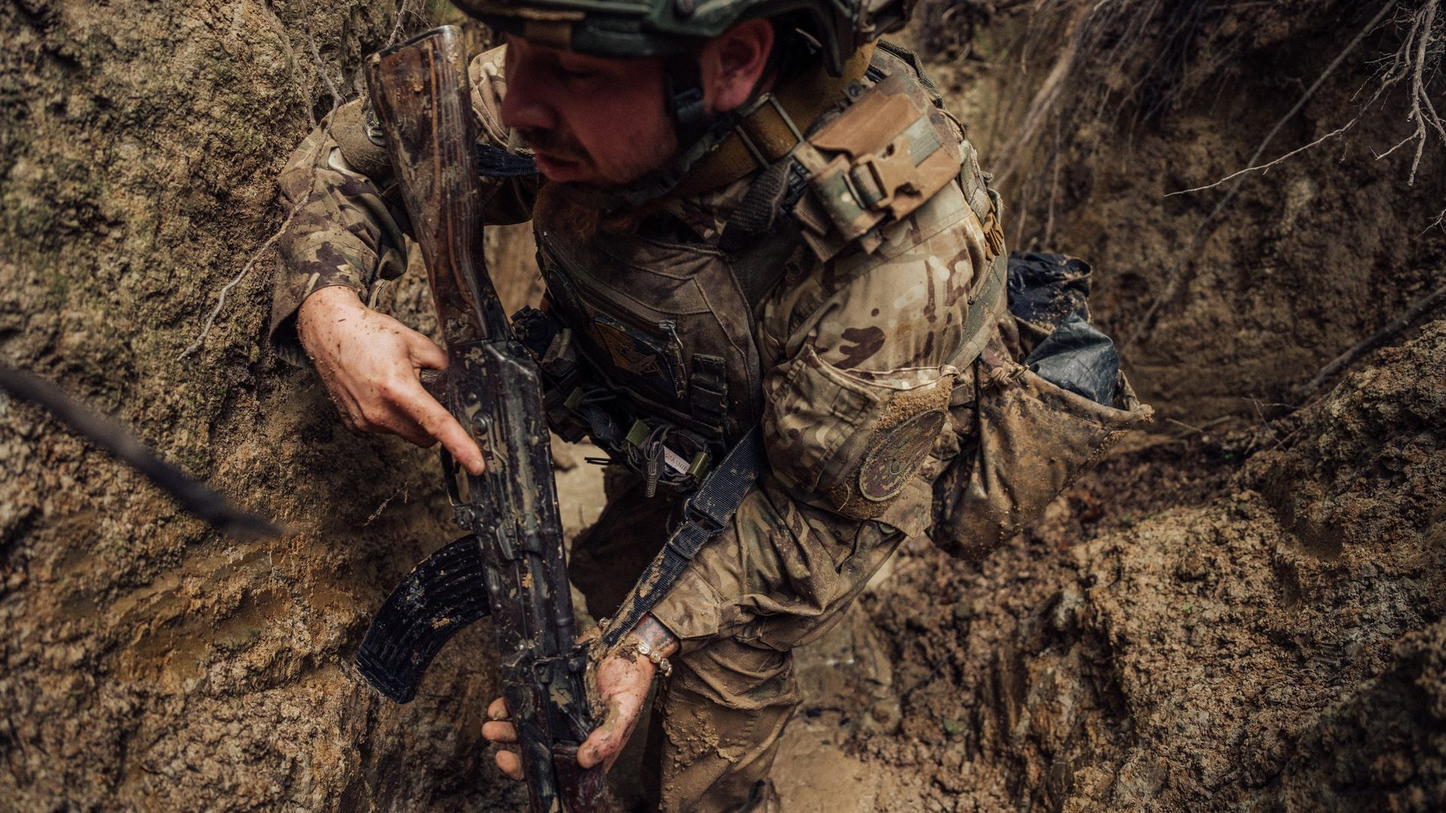
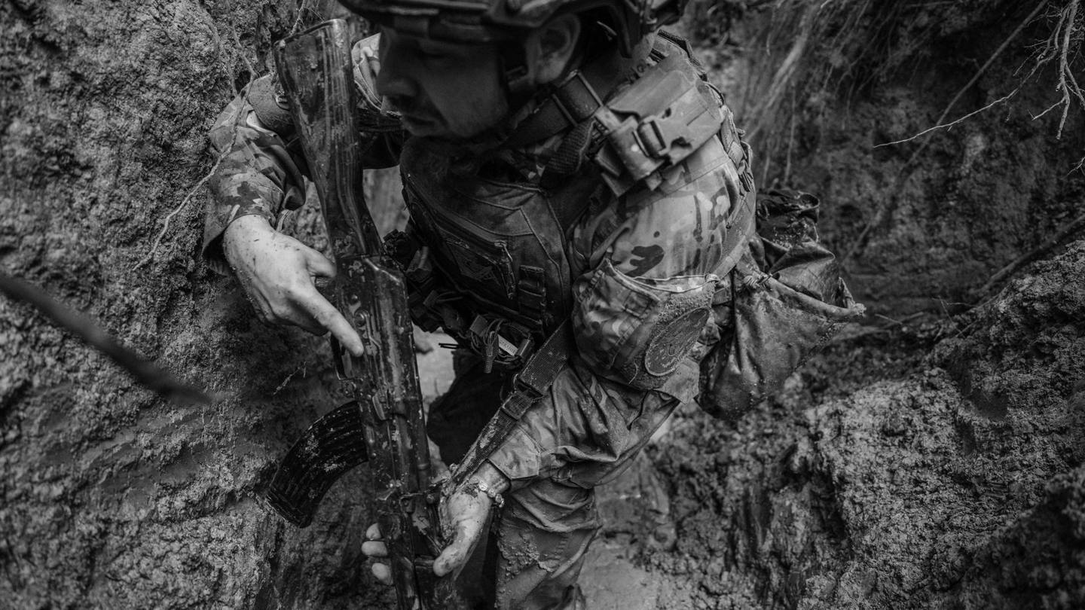
КАПА: лінія при «зменшити рух», більший заголовок героя, правки impeccable
- лінія-шлях іде за прокруткою й при prefers-reduced-motion;
- рядки заголовка героя завжди окремими рядками (без руху злипались в один), кегль більший;
- плашки напрямів у героях з'являються одразу, кнопка не перекриває переваги й колонки;
- контраст номерів кроків, тап-зони на мобільній, text-wrap: pretty;
- мобільна лінія починається від заголовка, не перетинає лого;
- фон переваг стиснуто з 471 до 211 КБ.

Claude-Session: https://claude.ai/code/session_01CyLZ4PZjCy5fRYcqyKuud3

diff --git a/index.html b/index.html
@@ -143,6 +143,15 @@ main{position:relative}
  .fm{padding:90px var(--g) 90px 48px}.fm form{padding-top:0}.fm .tel{font-size:120px}.qa{padding:90px var(--g)}.qa h2{position:static;font-size:60px}
 }
 
+/* заголовок героя більший (Данило 25.11) */
+.hero h1{font-size:clamp(96px,min(11.5vw,19vh),196px)}
+@media (max-width:720px){.hero h1{font-size:80px}}
+@media (prefers-reduced-motion:reduce){.tip .cube{transition:none}.cl img{transform:none!important;transition:filter .3s}}
+/* impeccable 25.11: читабельність і кнопка поверх контенту */
+p,li{text-wrap:pretty}
+.how li .no{color:#6B6B66}
+.fx .row{margin-bottom:152px}
+@media (max-width:720px){.fx .row{margin-bottom:112px}.fx .row span em{font-size:13px}.hd .tel{min-height:44px;box-sizing:border-box}.ft .r a{display:inline-block;padding:12px 0}.chk.fld{padding:4px 0}}
 /* кубик-вершина */
 .tip{background:none;box-shadow:none}
 .tip .cube{position:absolute;inset:0;background:var(--kapa);box-shadow:0 0 0 6px rgba(105,135,167,.18)}
@@ -206,7 +215,7 @@ main{position:relative}
 <ol><li data-step><span class="node" data-node="st0"><span class="sq"></span></span><span class="no">01</span><h3 class="kh">Залиш заявку</h3><p>Обери напрям у формі або телефонуй 3333.</p><div class=act><a class="btn " href="#zaiavka" ><span>Подати заявку</span><i><svg viewBox="0 0 20 20" fill="none" stroke="currentColor" stroke-width="1.8" stroke-linecap="square"><path d="M3 10h13M11 4.5 16.5 10 11 15.5"/></svg></i></a></div></li><li data-step><span class="node" data-node="st1"><span class="sq"></span></span><span class="no">02</span><h3 class="kh">Пройди співбесіду</h3><p>Розкажи про бойовий і професійний досвід. Тут же підберуть напрям.</p></li><li data-step><span class="node" data-node="st2"><span class="sq"></span></span><span class="no">03</span><h3 class="kh">Оформи переведення</h3><p>Контакт-центр пояснить, які документи потрібні і що далі.</p><div class=act><a class="btn ghost" href="tel:3333" style="--h:48px"><span>3333</span><i><svg viewBox="0 0 20 20" fill="none" stroke="currentColor" stroke-width="1.8" stroke-linecap="square"><path d="M3 10h13M11 4.5 16.5 10 11 15.5"/></svg></i></a></div></li><li data-step><span class="node" data-node="st3"><span class="sq"></span></span><span class="no">04</span><h3 class="kh">Долучайся до КАПА</h3><p>Пройди необхідну підготовку та розпочинай службу.</p></li></ol></section>
 
 <section class="pos dirs on-l" id="posady" data-light><div class="top"><h2 class="kh rv"><span>Знайди своє</span><br>місце в КАПА</h2><p class="rv">Інструкторські, дрілл-сержантські, офіцерські та посади забезпечення. Обери напрям, у якому зможеш застосувати свій бойовий або професійний досвід.</p></div>
-<div class="gal"><div class="cl open" id="n-instr" tabindex="0" role="button" aria-expanded="true"><img src="a/dir-instruktory.jpg" alt="Інструктори" loading="lazy" width="900" height="900"><span class="bar"></span><div class="tx"><span class="nm">Інструктори</span><span class="rq">Бойовий досвід обовʼязковий</span><div class="more"><div><ul><li>Проводиш заняття й передаєш практичні знання</li><li>Бойовий досвід обовʼязковий</li><li>Без інструкторської підготовки — стажування й сертифікація</li></ul><a class="btn " href="#zaiavka" data-dir="instr"><span>Подати заявку</span><i><svg viewBox="0 0 20 20" fill="none" stroke="currentColor" stroke-width="1.8" stroke-linecap="square"><path d="M3 10h13M11 4.5 16.5 10 11 15.5"/></svg></i></a></div></div></div></div><div class="cl" id="n-drill" tabindex="0" role="button" aria-expanded="false"><img src="a/dir-drill.jpg" alt="Дрілл-сержанти" loading="lazy" width="900" height="900"><span class="bar"></span><div class="tx"><span class="nm">Дрілл-сержанти</span><span class="rq">Бойовий досвід бажаний</span><div class="more"><div><ul><li>Супровід рекрутів і адаптація до служби</li><li>Підтримка дисципліни та організація підготовки</li><li>Без підготовки — стажування й сертифікація</li></ul><a class="btn " href="#zaiavka" data-dir="drill"><span>Подати заявку</span><i><svg viewBox="0 0 20 20" fill="none" stroke="currentColor" stroke-width="1.8" stroke-linecap="square"><path d="M3 10h13M11 4.5 16.5 10 11 15.5"/></svg></i></a></div></div></div></div><div class="cl" id="n-ofic" tabindex="0" role="button" aria-expanded="false"><img src="a/dir-oficery.jpg" alt="Офіцерські посади" loading="lazy" width="900" height="900"><span class="bar"></span><div class="tx"><span class="nm">Офіцерські посади</span><span class="rq">Штаб, навчальні роти</span><div class="more"><div><ul><li>Штабні секції та навчальні роти</li><li>Матеріально-технічне забезпечення й забезпечення навчального&nbsp;процесу</li><li>Про конкретну посаду розкажуть у контакт-центрі&nbsp;3333</li></ul><a class="btn " href="#zaiavka" data-dir="ofic"><span>Подати заявку</span><i><svg viewBox="0 0 20 20" fill="none" stroke="currentColor" stroke-width="1.8" stroke-linecap="square"><path d="M3 10h13M11 4.5 16.5 10 11 15.5"/></svg></i></a></div></div></div></div><div class="cl" id="n-zabez" tabindex="0" role="button" aria-expanded="false"><img src="a/dir-zabezpechennia.jpg" alt="Забезпечення" loading="lazy" width="900" height="900"><span class="bar"></span><div class="tx"><span class="nm">Забезпечення</span><span class="rq">8 спеціальностей</span><div class="more"><div><ul><li>Технічне, матеріальне й організаційне забезпечення</li><li>8 спеціальностей: від OPFOR і стрільбищ до бронетехніки й будівництва</li><li>Напрям допоможуть визначити на співбесіді</li></ul><a class="btn " href="#zaiavka" data-dir="zabez"><span>Подати заявку</span><i><svg viewBox="0 0 20 20" fill="none" stroke="currentColor" stroke-width="1.8" stroke-linecap="square"><path d="M3 10h13M11 4.5 16.5 10 11 15.5"/></svg></i></a></div></div></div></div></div></section>
+<div class="gal" data-cta-off><div class="cl open" id="n-instr" tabindex="0" role="button" aria-expanded="true"><img src="a/dir-instruktory.jpg" alt="Інструктори" loading="lazy" width="900" height="900"><span class="bar"></span><div class="tx"><span class="nm">Інструктори</span><span class="rq">Бойовий досвід обовʼязковий</span><div class="more"><div><ul><li>Проводиш заняття й передаєш практичні знання</li><li>Бойовий досвід обовʼязковий</li><li>Без інструкторської підготовки — стажування й сертифікація</li></ul><a class="btn " href="#zaiavka" data-dir="instr"><span>Подати заявку</span><i><svg viewBox="0 0 20 20" fill="none" stroke="currentColor" stroke-width="1.8" stroke-linecap="square"><path d="M3 10h13M11 4.5 16.5 10 11 15.5"/></svg></i></a></div></div></div></div><div class="cl" id="n-drill" tabindex="0" role="button" aria-expanded="false"><img src="a/dir-drill.jpg" alt="Дрілл-сержанти" loading="lazy" width="900" height="900"><span class="bar"></span><div class="tx"><span class="nm">Дрілл-сержанти</span><span class="rq">Бойовий досвід бажаний</span><div class="more"><div><ul><li>Супровід рекрутів і адаптація до служби</li><li>Підтримка дисципліни та організація підготовки</li><li>Без підготовки — стажування й сертифікація</li></ul><a class="btn " href="#zaiavka" data-dir="drill"><span>Подати заявку</span><i><svg viewBox="0 0 20 20" fill="none" stroke="currentColor" stroke-width="1.8" stroke-linecap="square"><path d="M3 10h13M11 4.5 16.5 10 11 15.5"/></svg></i></a></div></div></div></div><div class="cl" id="n-ofic" tabindex="0" role="button" aria-expanded="false"><img src="a/dir-oficery.jpg" alt="Офіцерські посади" loading="lazy" width="900" height="900"><span class="bar"></span><div class="tx"><span class="nm">Офіцерські посади</span><span class="rq">Штаб, навчальні роти</span><div class="more"><div><ul><li>Штабні секції та навчальні роти</li><li>Матеріально-технічне забезпечення й забезпечення навчального&nbsp;процесу</li><li>Про конкретну посаду розкажуть у контакт-центрі&nbsp;3333</li></ul><a class="btn " href="#zaiavka" data-dir="ofic"><span>Подати заявку</span><i><svg viewBox="0 0 20 20" fill="none" stroke="currentColor" stroke-width="1.8" stroke-linecap="square"><path d="M3 10h13M11 4.5 16.5 10 11 15.5"/></svg></i></a></div></div></div></div><div class="cl" id="n-zabez" tabindex="0" role="button" aria-expanded="false"><img src="a/dir-zabezpechennia.jpg" alt="Забезпечення" loading="lazy" width="900" height="900"><span class="bar"></span><div class="tx"><span class="nm">Забезпечення</span><span class="rq">8 спеціальностей</span><div class="more"><div><ul><li>Технічне, матеріальне й організаційне забезпечення</li><li>8 спеціальностей: від OPFOR і стрільбищ до бронетехніки й будівництва</li><li>Напрям допоможуть визначити на співбесіді</li></ul><a class="btn " href="#zaiavka" data-dir="zabez"><span>Подати заявку</span><i><svg viewBox="0 0 20 20" fill="none" stroke="currentColor" stroke-width="1.8" stroke-linecap="square"><path d="M3 10h13M11 4.5 16.5 10 11 15.5"/></svg></i></a></div></div></div></div></div></section>
 
 <section class="qa on-l" id="pytannia" data-light><div><h2 class="kh">Питання</h2><p style="color:#55554e;margin-top:20px">Подробиці твоєї ситуації — телефоном 3333.</p></div><div class="faq "><details><summary>Чи можна перевестися з бойового підрозділу?<i></i></summary><p>Так. Залиш заявку або телефонуй 3333 — обговоримо твій досвід, підберемо напрям і пояснимо порядок переведення.</p></details><details><summary>Чим я займатимуся в КАПА?<i></i></summary><p>Навчатимеш військових, допомагатимеш рекрутам адаптуватися до служби або забезпечуватимеш роботу навчального батальйону — залежно від посади.</p></details><details><summary>Чи обовʼязковий бойовий досвід?<i></i></summary><p>Для інструкторів — так. Для дрілл-сержантів він бажаний, але не обовʼязковий. Також є посади для фахівців технічних і забезпечувальних напрямів.</p></details><details><summary>А якщо я не маю інструкторської підготовки?<i></i></summary><p>Передбачені стажування з досвідченим інструктором або дрілл-сержантом, необхідна підготовка та сертифікація.</p></details><details><summary>Чи можна служити з обмеженнями за станом здоровʼя?<i></i></summary><p>Так. Відповідний напрям допоможуть визначити під час співбесіди, залежно від висновку ВЛК та вимог посади.</p></details><details><summary>Яке грошове забезпечення?<i></i></summary><p>Відповідно до посади та звання. Для інструкторів і дрілл-сержантів передбачені додаткові виплати від 15 000 до 30 000 грн.</p></details><details><summary>Які умови проживання та відпочинку?<i></i></summary><p>Під час підготовки інструктори й дрілл-сержанти проживають разом із рекрутами. Вихідні надаються з урахуванням навчального процесу. Щорічна основна відпустка — до 30 календарних днів.</p></details><details><summary>Чи передбачені відрядження?<i></i></summary><p>Так, для проведення занять та обміну досвідом у районах виконання завдань бригади. Такі відрядження не передбачають безпосереднього виконання бойових завдань.</p></details></div></section>
 
@@ -239,7 +248,7 @@ main{position:relative}
   var e=pos(main.querySelector('[data-node=end]'));
   var R=W-rail, vh=innerHeight, pts, kf;
   if(mob){
-   var x=30;pts=[[x,s.y]].concat(st.map(function(p){return[x,p.y]}),[[x,e.y]]);
+   var x=30,h1=pos(main.querySelector('.hero h1'));pts=[[x,h1.y-24]].concat(st.map(function(p){return[x,p.y]}),[[x,e.y]]);
   }else{
    var dirs=main.querySelector('.dirs'),dy=pos(dirs).y;
    pts=[[s.x,s.y],[s.x,st[0].y],[st[3].x,st[3].y],[R,st[3].y],[R,e.y],[e.x,e.y]];
@@ -275,13 +284,14 @@ main{position:relative}
   return L;
  }
  K.ticks.push(function(y){
-  var l=K.motion?at(y):L;fg.style.strokeDashoffset=L-l;
+  var l=at(y);fg.style.strokeDashoffset=L-l;
   var p=fg.getPointAtLength(l);tip.style.transform='translate('+p.x+'px,'+p.y+'px)';
   hits.forEach(function(h){var on=l>=h[1]-2;h[0].classList.toggle('is-hit',on);var li=h[0].closest('[data-step]');if(li)li.classList.toggle('is-hit',on)});
  });
  addEventListener('load',function(){build();K.tick()});addEventListener('resize',function(){build();K.tick()});
  document.fonts&&document.fonts.ready.then(function(){build();K.tick()});build();
  })();
+setTimeout(function(){[].forEach.call(document.querySelectorAll('.hero .rv'),function(e){e.classList.add('is-in')})},350);
 (function(){
  var fx=document.querySelector('.fx'),ns=fx.querySelectorAll('.n'),ls=fx.querySelectorAll('.lab>div'),bs=fx.querySelectorAll('.row button'),ix=fx.querySelector('.ix'),bg=fx.querySelector('.bg2'),cur=-1;
  var tip=document.querySelector('.tip'),cube=tip.querySelector('.cube'),dots=[].slice.call(tip.querySelectorAll('.dots i')),CUBE="B";

diff --git a/base.css b/base.css
@@ -116,6 +116,7 @@ form.is-sent .done{display:block}
 .mo .rv{opacity:0;transform:translateY(28px);transition:opacity .9s var(--ease),transform 1.1s var(--ease)}
 .mo .rv.is-in{opacity:1;transform:none}
 .mo .rv-d1{transition-delay:.08s}.mo .rv-d2{transition-delay:.16s}.mo .rv-d3{transition-delay:.24s}
+.ln{display:block}
 .mo .ln{overflow:hidden;display:block}
 .mo .ln>span{display:block;transform:translateY(105%);transition:transform 1.1s var(--ease)}
 .mo .is-in .ln>span,.mo .ln.is-in>span{transform:none}
